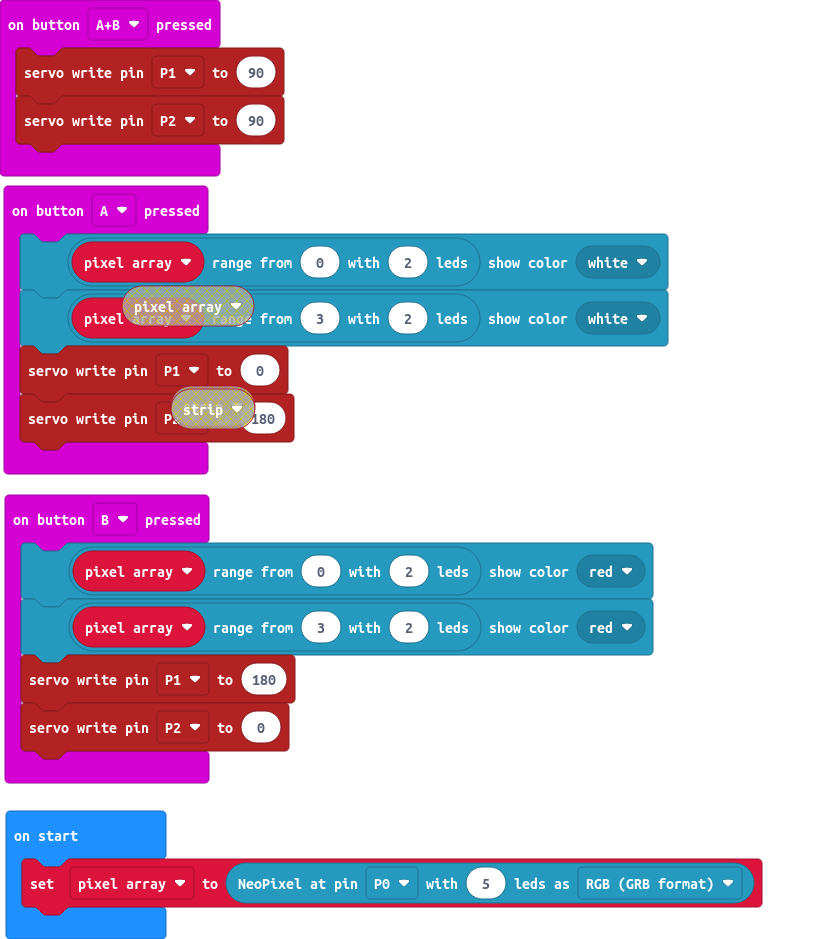
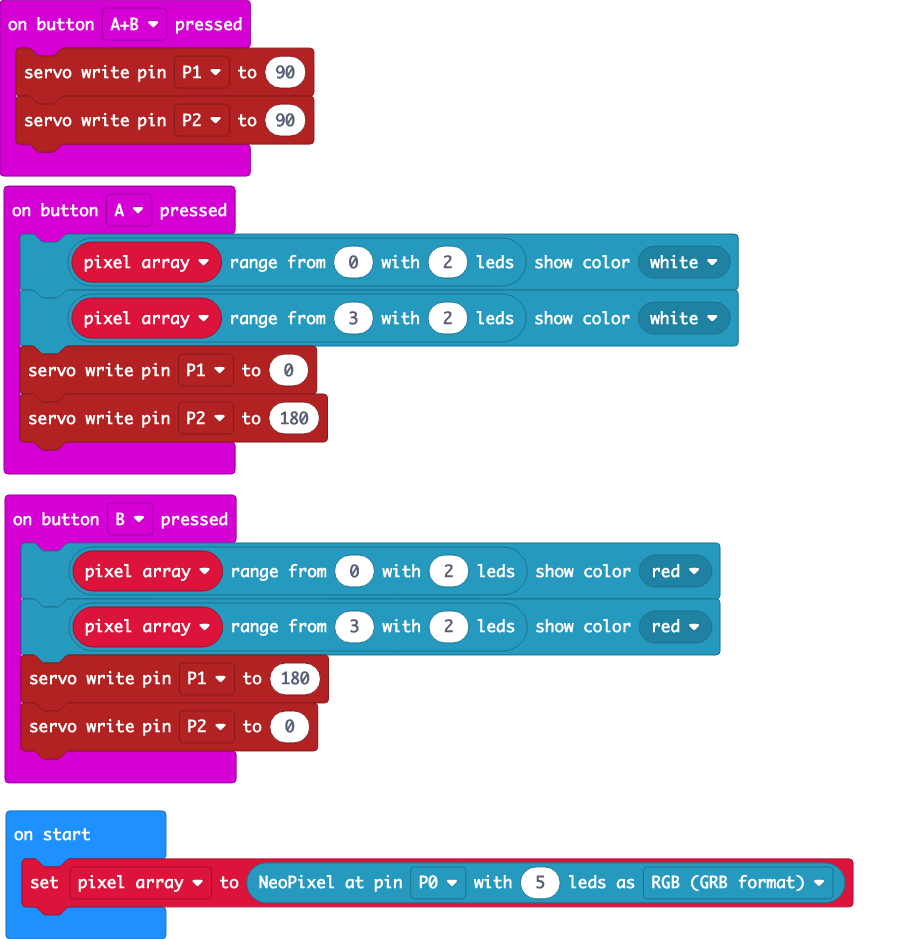
clean up

diff --git a/main.py b/main.py
@@ -1,0 +1,21 @@
+def on_button_pressed_a():
+    pixel_array.range(0, 2).show_color(neopixel.colors(NeoPixelColors.WHITE))
+    pixel_array.range(3, 2).show_color(neopixel.colors(NeoPixelColors.WHITE))
+    pins.servo_write_pin(AnalogPin.P1, 0)
+    pins.servo_write_pin(AnalogPin.P2, 180)
+input.on_button_pressed(Button.A, on_button_pressed_a)
+
+def on_button_pressed_ab():
+    pins.servo_write_pin(AnalogPin.P1, 90)
+    pins.servo_write_pin(AnalogPin.P2, 90)
+input.on_button_pressed(Button.AB, on_button_pressed_ab)
+
+def on_button_pressed_b():
+    pixel_array.range(0, 2).show_color(neopixel.colors(NeoPixelColors.RED))
+    pixel_array.range(3, 2).show_color(neopixel.colors(NeoPixelColors.RED))
+    pins.servo_write_pin(AnalogPin.P1, 180)
+    pins.servo_write_pin(AnalogPin.P2, 0)
+input.on_button_pressed(Button.B, on_button_pressed_b)
+
+pixel_array: neopixel.Strip = None
+pixel_array = neopixel.create(DigitalPin.P0, 5, NeoPixelMode.RGB)
